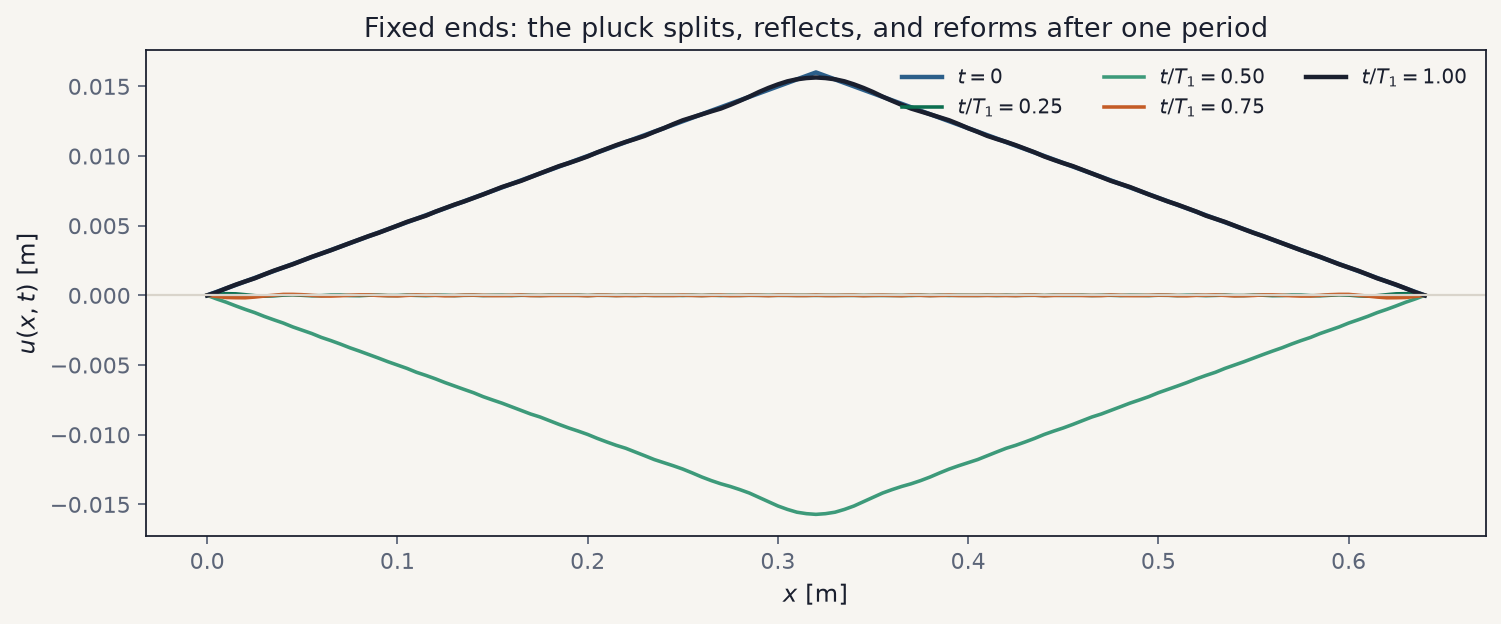
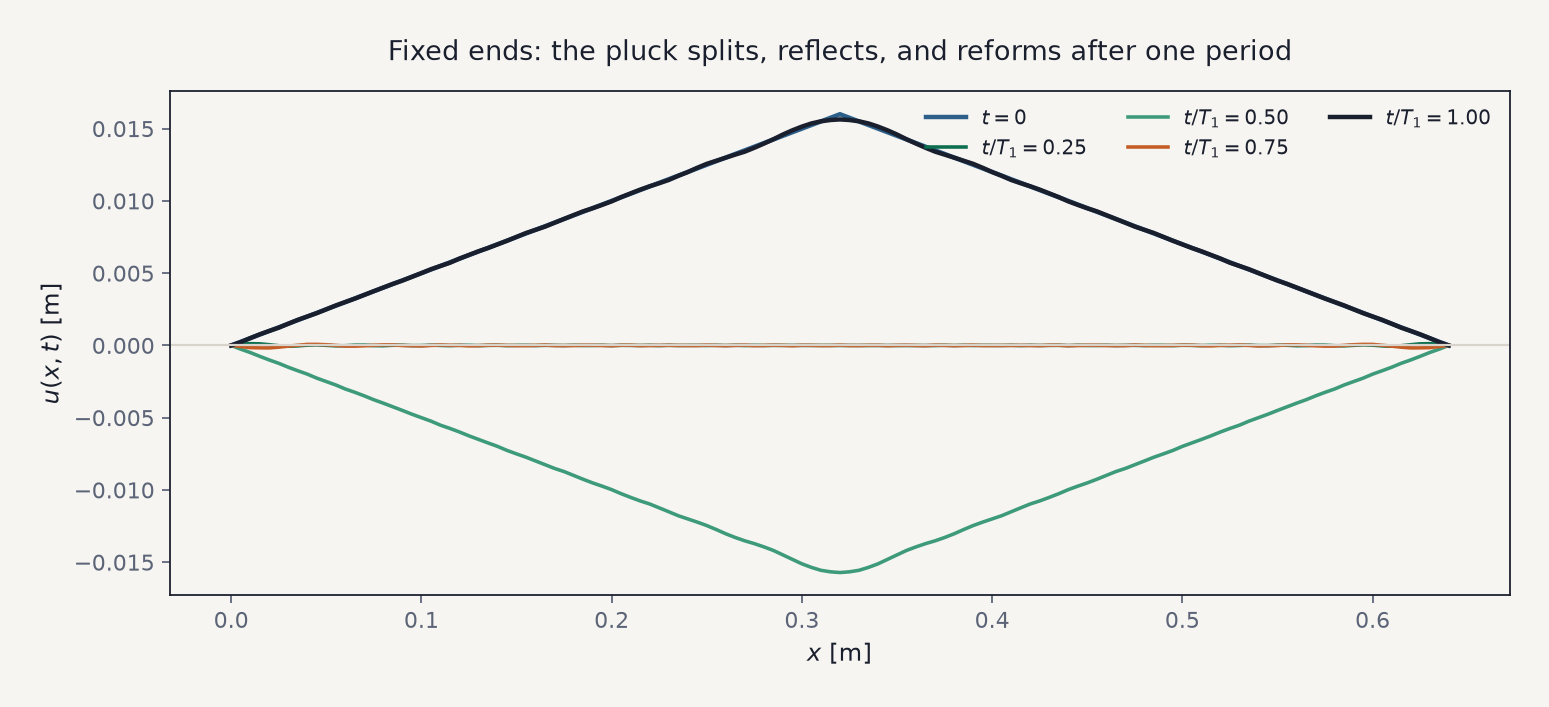
Fix cropped figure titles and GitHub-hostile inline LaTeX
Give animated GIFs extra top margin so titles are not clipped by
PillowWriter, pad static saves, and rewrite README math that failed to
render (\mathcal{O}, pipe norms, set braces).

diff --git a/wavefd/viz/animations.py b/wavefd/viz/animations.py
@@ -39,19 +39,20 @@ def animate_string_gif(
     pad = 0.08 * max(ymax - ymin, 1e-12)
     T1 = sol.config.fundamental_period(float(sol.x[-1] - sol.x[0]))
 
-    fig, ax = plt.subplots(figsize=(8.0, 3.6))
+    # Extra top margin so animated titles are not clipped by the axes frame
+    # (PillowWriter ignores bbox_inches='tight').
+    fig, ax = plt.subplots(figsize=(8.0, 4.6))
     (line,) = ax.plot([], [], color=PALETTE["accent"], lw=2.2)
     ax.axhline(0.0, color=PALETTE["grid"], lw=1)
     ax.set_xlim(sol.x[0], sol.x[-1])
     ax.set_ylim(ymin - pad, ymax + pad)
     ax.set_xlabel(r"$x$ [m]")
     ax.set_ylabel(r"$u(x,t)$ [m]")
-    title = ax.set_title("")
-    fig.tight_layout()
+    title = ax.set_title("Fixed string", pad=18)
+    fig.subplots_adjust(left=0.11, right=0.98, bottom=0.13, top=0.78)
 
     def _init():
         line.set_data([], [])
-        title.set_text("")
         return line, title
 
     def _update(frame: int):
@@ -100,7 +101,7 @@ def animate_membrane_gif(
     extent = [sol.x[0], sol.x[-1], sol.y[0], sol.y[-1]]
     T11 = sol.config.fundamental_period()
 
-    fig, ax = plt.subplots(figsize=(5.2, 5.0))
+    fig, ax = plt.subplots(figsize=(5.4, 5.8))
     im = ax.imshow(
         sol.u[0],
         origin="lower",
@@ -112,10 +113,10 @@ def animate_membrane_gif(
     )
     ax.set_xlabel(r"$x$ [m]")
     ax.set_ylabel(r"$y$ [m]")
-    title = ax.set_title("")
+    title = ax.set_title(label, pad=18)
     cbar = fig.colorbar(im, ax=ax, fraction=0.046, pad=0.04)
     cbar.set_label(r"$u$ [m]")
-    fig.tight_layout()
+    fig.subplots_adjust(left=0.14, right=0.86, bottom=0.10, top=0.82)
 
     def _update(frame: int):
         i = int(idxs[frame])

diff --git a/wavefd/viz/figures.py b/wavefd/viz/figures.py
@@ -55,7 +55,7 @@ def generate_all_figures(
 
 
 def _save(fig: plt.Figure, path: Path) -> Path:
-    fig.savefig(path)
+    fig.savefig(path, bbox_inches="tight", pad_inches=0.25)
     plt.close(fig)
     return path
 
@@ -131,16 +131,19 @@ def _fig_string_evolution(sol: StringSolution, out: Path) -> Path:
     fractions = (0.0, 0.25, 0.5, 0.75, 1.0)
     idxs = sol.snapshot_indices(fractions)
     colors = [PALETTE["cool"], PALETTE["accent"], PALETTE["accent_soft"], PALETTE["warm"], PALETTE["ink"]]
-    fig, ax = plt.subplots(figsize=(9.5, 4.0))
+    fig, ax = plt.subplots(figsize=(9.5, 4.4))
     for frac, idx, color in zip(fractions, idxs, colors):
         label = rf"$t/T_1 = {frac:.2f}$" if frac else r"$t = 0$"
         ax.plot(sol.x, sol.u[idx], color=color, lw=2.0 if frac in (0.0, 1.0) else 1.6, label=label)
     ax.axhline(0.0, color=PALETTE["grid"], lw=1)
     ax.set_xlabel(r"$x$ [m]")
     ax.set_ylabel(r"$u(x,t)$ [m]")
-    ax.set_title("Fixed ends: the pluck splits, reflects, and reforms after one period")
+    ax.set_title(
+        "Fixed ends: the pluck splits, reflects, and reforms after one period",
+        pad=14,
+    )
     ax.legend(ncol=3, fontsize=9, loc="upper right")
-    fig.tight_layout()
+    fig.tight_layout(rect=(0, 0, 1, 0.96))
     return _save(fig, out / "03_string_fixed_evolution.png")
 
 

diff --git a/wavefd/viz/style.py b/wavefd/viz/style.py
@@ -27,6 +27,7 @@ def apply_style() -> None:
             "axes.labelcolor": PALETTE["ink"],
             "axes.titlecolor": PALETTE["ink"],
             "axes.titlesize": 12,
+            "axes.titlepad": 12,
             "axes.labelsize": 11,
             "xtick.color": PALETTE["muted"],
             "ytick.color": PALETTE["muted"],
@@ -36,6 +37,7 @@ def apply_style() -> None:
             "legend.frameon": False,
             "savefig.dpi": 160,
             "savefig.bbox": "tight",
+            "savefig.pad_inches": 0.25,
             "savefig.facecolor": PALETTE["bg"],
         }
     )

diff --git a/wavefd/viz/extension_figures.py b/wavefd/viz/extension_figures.py
@@ -19,7 +19,7 @@ from wavefd.viz.style import PALETTE, apply_style
 
 
 def _save(fig: plt.Figure, path: Path) -> Path:
-    fig.savefig(path)
+    fig.savefig(path, bbox_inches="tight", pad_inches=0.25)
     plt.close(fig)
     return path
 

diff --git a/wavefd/viz/validation_figures.py b/wavefd/viz/validation_figures.py
@@ -16,7 +16,7 @@ from wavefd.viz.style import PALETTE, apply_style
 
 
 def _save(fig: plt.Figure, path: Path) -> Path:
-    fig.savefig(path)
+    fig.savefig(path, bbox_inches="tight", pad_inches=0.25)
     plt.close(fig)
     return path
 

diff --git a/README.md b/README.md
@@ -100,7 +100,7 @@ reflect with a sign change and reform the initial profile at $t=T_1$.
 </p>
 
 **Figure 3b.** Discrete snapshots of the same evolution at
-$t/T_1\in\{0,0.25,0.5,0.75,1\}$.
+$t/T_1 = 0$, $0.25$, $0.5$, $0.75$, and $1$.
 
 <p align="center">
   <img src="figures/04_string_spacetime.png" width="820" alt="Space-time diagram of the fixed string"/>
@@ -219,8 +219,8 @@ norm) as a function of time.
 
 A pure standing wave $u(x,0)=A\sin(\pi x/L)$ removes the kink and yields a
 clean convergence test. Refining $\Delta x$ at fixed Courant number, the
-leapfrog scheme (formally $\mathcal{O}(\Delta x^2,\Delta t^2)$) shows a
-higher observed rate on this grid eigenmode:
+leapfrog scheme — formally second-order in $\Delta x$ and $\Delta t$ —
+shows a higher observed rate on this grid eigenmode:
 
 <p align="center">
   <img src="figures/10_convergence.png" width="720" alt="Spatial convergence study"/>
@@ -288,8 +288,8 @@ $(m,n)$ pairs carry the energy:
   <img src="figures/15_membrane_modes.png" width="900" alt="Membrane rectangular modal spectrum"/>
 </p>
 
-**Figure 15.** Absolute modal amplitudes $|a_{mn}|$ and energy fractions
-for the centered strike.
+**Figure 15.** Absolute modal amplitudes $\lvert a_{mn}\rvert$ and energy
+fractions for the centered strike.
 
 ---
 
